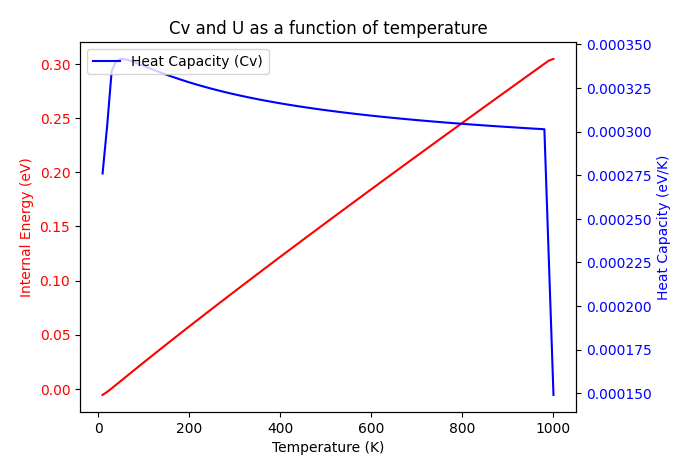
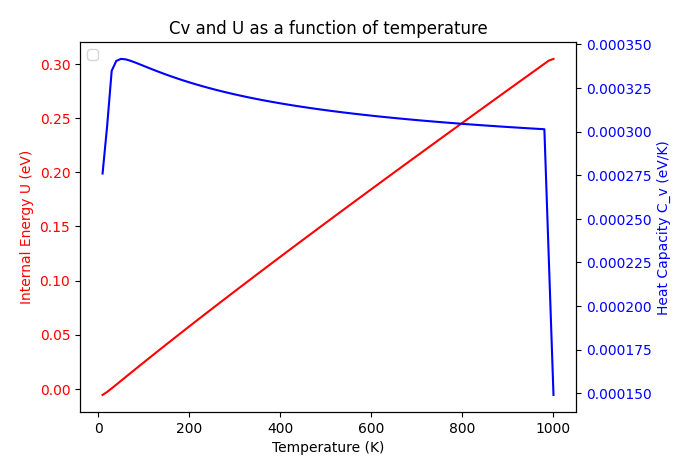
I also needed a new Cv and U graph

Changed region(s): [[0.9421, 0.2947, 0.9725, 0.6779], [0.1216, 0.1179, 0.3951, 0.1768], [0.0304, 0.3242, 0.0608, 0.6484]]

diff --git a/homework-4-grad/plot_heat_capa.py b/homework-4-grad/plot_heat_capa.py
@@ -1,4 +1,5 @@
 #importing mat plot lib and pandas since I want to try to do this from a CSV
+#The main reason I'm importing a CSV and not the functions themselves is that I don't want to run that hard drive frier again!
 import matplotlib.pyplot as plt
 import pandas as pd
 
@@ -18,15 +19,15 @@ Heat_Capacity = df['Heat Capacity']
 #prepares to plot two subplots, the way the matplotlib docs told me to
 fig, ax1 = plt.subplots()
 # Plot units for U on the left y-axis
-ax1.plot(Temperature, Internal_Energy, linestyle = '-', label='Internal Energy (U)', color= 'red')
+ax1.plot(Temperature, Internal_Energy, linestyle = '-', color= 'red')
 ax1.set_xlabel('Temperature (K)')
-ax1.set_ylabel('Internal Energy (eV)', color='red')
+ax1.set_ylabel('Internal Energy U (eV)', color='red')
 ax1.tick_params(axis='y', labelcolor='red')
 
 #Create a second y-axis for the Heat capacity
 ax2 = ax1.twinx()
-ax2.plot(Temperature, Heat_Capacity, linestyle = '-', label='Heat Capacity (Cv)', color= 'blue')
-ax2.set_ylabel('Heat Capacity (eV/K)', color='blue')
+ax2.plot(Temperature, Heat_Capacity, linestyle = '-', color= 'blue')
+ax2.set_ylabel('Heat Capacity C_v (eV/K)', color='blue')
 ax2.tick_params(axis='y', labelcolor='blue')
 
 #Sets the legend to the upper left so it's out of the way
